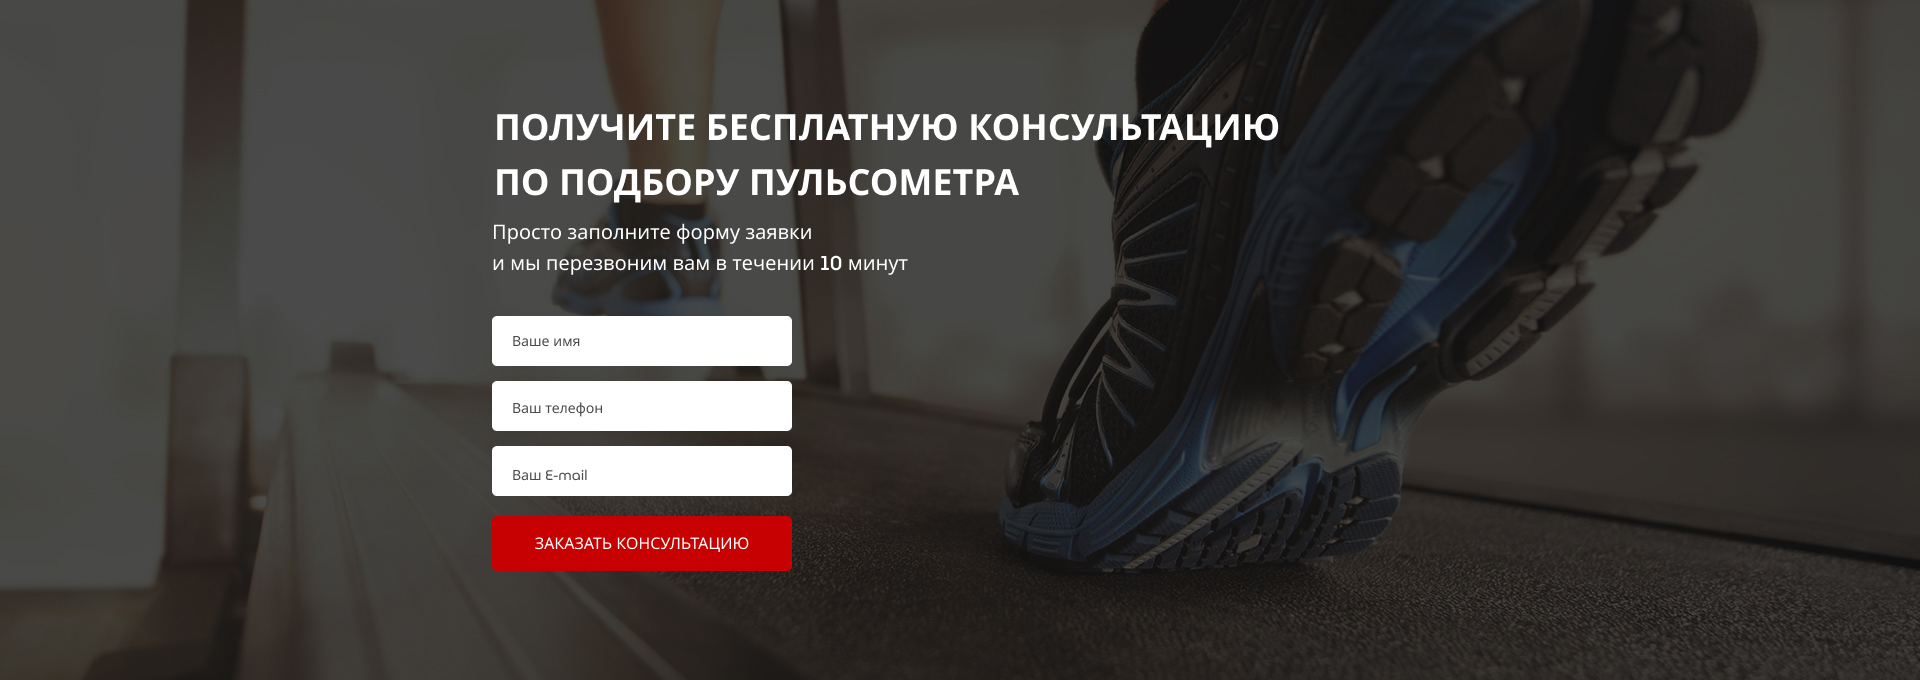
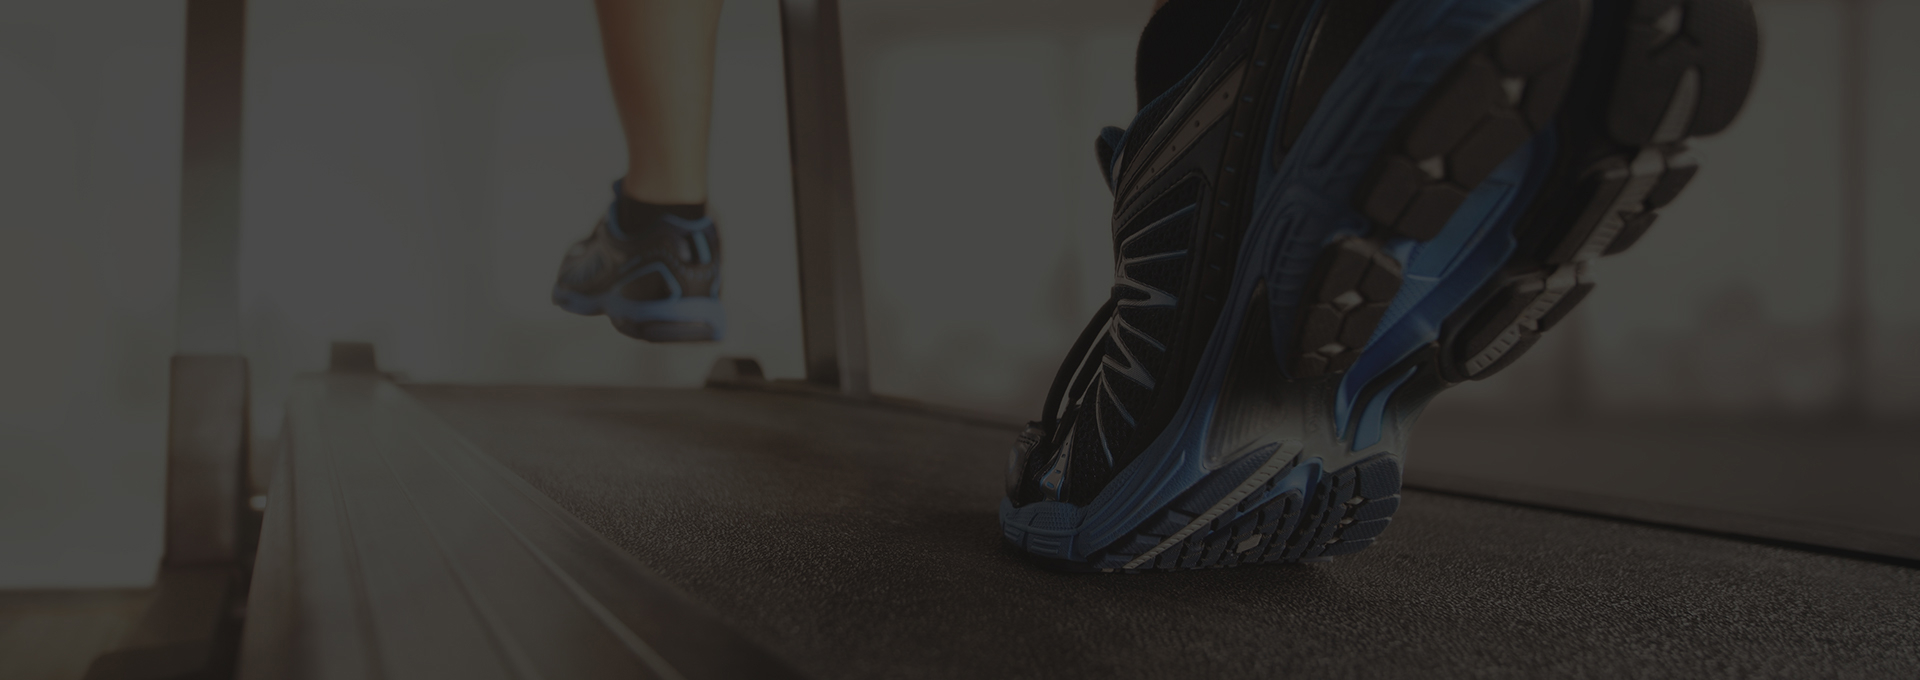
add consultation section

diff --git a/src/css/style.min.css b/src/css/style.min.css
@@ -1,1 +1,1 @@
-.promo{min-height:650px;background:url(../img/bg/promo_bg.jpg) center center/cover no-repeat;padding:21px 0 90px 0}.promo__wrapper{display:flex;flex-direction:column;align-items:end;margin-top:90px}.promo__header{font-weight:700;font-size:42px;text-transform:uppercase;color:#fff}.promo__subheader{font-weight:500;font-size:24px;text-transform:uppercase;color:#fff}.promo__icons{margin-top:60px;width:424px;display:flex;justify-content:space-between;align-items:center}.promo__icon{width:133px;font-weight:500;font-size:14px;text-align:center;color:#fff}.promo__icon img{display:block;margin:0 auto}.promo__link{margin-top:8px;font-weight:500;font-size:16px;color:#fff}.promo__link a{color:#fff}.header{display:flex;justify-content:space-between;align-items:center}.header__logo{width:251px}.header__logo img{width:100%}.header__offitial{font-weight:500;font-size:12px;text-align:center;color:#fff}.header__offitial span{display:block;font-size:18px}.header__phone{font-weight:700;font-size:18px;color:#fff;display:block}.header__contacts{display:flex;flex-direction:column;align-items:flex-end}.button{width:153px;height:32px;background:#c70101;border-radius:5px;font-weight:500;font-size:12px;text-align:center;text-transform:uppercase;color:#fff;border:none}.button_promo{margin-top:65px;width:300px;height:50px;font-size:16px}.advantages{min-height:473px;background:#f6f6f6;padding:70px 0 65px 0}.advantages__wrapper{margin-top:60px;display:flex;justify-content:space-between}.advantages__item{width:273px}.advantages__icon{display:block;margin:0 auto}.advantages__subtitle{margin-top:35px;font-weight:700;font-size:18px;text-align:center;color:#0d0d0d}.advantages__desc{font-weight:300;font-size:14px;text-align:center;color:#0d0d0d}.advantages__desc a{color:red}.title{font-weight:700;font-size:30px;text-align:center;color:#0d0d0d}*{font-family:"Museo Sans ",sans-serif}.container{width:942px;margin:0 auto}@media(max-width:991px){.container{width:742px}.promo__header{font-size:35px}.promo__subheader{font-size:20px}.advantages__item{width:223px}}@media(max-width:767px){.container{width:550px}.header__logo{width:190px}.header__offitial{font-size:11px}.header__offitial span{font-size:15px}.header__phone{font-size:15px}.button{width:125px;font-size:11px}.button_promo{width:180px}.promo__header{font-size:30px}.promo__subheader{font-size:16px}.promo__icon img{width:35px}.promo__link{font-size:14px}.advantages__item{width:170px}.advantages__subtitle{font-size:14px}.advantages__desc{font-size:12px}}@media(max-width:575px){.container{width:300px}.header{flex-direction:column}.header__logo{width:190px}.header__offitial{margin-top:10px}.header__contacts{margin-top:10px}.promo__wrapper{align-items:center}.promo__header{font-size:23px}.promo__subheader{font-size:12px}.promo__icons{width:300px}.promo__icon{width:100px;font-size:11px}.title{font-size:20px}.advantages__wrapper{flex-direction:column}.advantages__item{width:273px;margin:0 auto}.advantages__subtitle{font-size:17px}.advantages__desc{font-size:14px}}
+.promo{min-height:650px;background:url(../img/bg/promo_bg.jpg) center center/cover no-repeat;padding:21px 0 90px 0}.promo__wrapper{display:flex;flex-direction:column;align-items:end;margin-top:90px}.promo__header{font-weight:700;font-size:42px;text-transform:uppercase;color:#fff}.promo__subheader{font-weight:500;font-size:24px;text-transform:uppercase;color:#fff}.promo__icons{margin-top:60px;width:424px;display:flex;justify-content:space-between;align-items:center}.promo__icon{width:133px;font-weight:500;font-size:14px;text-align:center;color:#fff}.promo__icon img{display:block;margin:0 auto}.promo__link{margin-top:8px;font-weight:500;font-size:16px;color:#fff}.promo__link a{color:#fff}.header{display:flex;justify-content:space-between;align-items:center}.header__logo{width:251px}.header__logo img{width:100%}.header__offitial{font-weight:500;font-size:12px;text-align:center;color:#fff}.header__offitial span{display:block;font-size:18px}.header__phone{font-weight:700;font-size:18px;color:#fff;display:block}.header__contacts{display:flex;flex-direction:column;align-items:flex-end}.button{background:#c70101;border-radius:5px;font-weight:500;font-size:12px;text-align:center;text-transform:uppercase;color:#fff;border:none}.button_nav{width:153px;height:32px}.button_promo{margin-top:65px;width:300px;height:50px;font-size:16px}.button_submit{width:100%;height:58px}.advantages{min-height:473px;background:#f6f6f6;padding:70px 0 65px 0}.advantages__wrapper{margin-top:60px;display:flex;justify-content:space-between}.advantages__item{width:273px}.advantages__icon{display:block;margin:0 auto}.advantages__subtitle{margin-top:35px;font-weight:700;font-size:18px;text-align:center;color:#0d0d0d}.advantages__desc{font-weight:300;font-size:14px;text-align:center;color:#0d0d0d}.advantages__desc a{color:red}.title{font-weight:700;font-size:30px;text-align:center;color:#0d0d0d}.title_white-left{text-align:start;font-size:36px;text-transform:uppercase;color:#fff;width:799px}.consultation{min-height:680px;background:url(../img/bg/consultation_bg.jpg) center center/cover no-repeat;padding:100px 0 108px 0}.consultation__desc{font-weight:500;font-size:20px;color:#fff;width:426px}.form{margin-top:36px;display:flex;flex-direction:column;width:300px}.form input{padding:0 20px;height:54px;border-radius:5px;border:none;margin-bottom:11px}.form input:nth-child(3){margin-bottom:17px}*{font-family:"Museo Sans ",sans-serif}.container{width:942px;margin:0 auto}@media(max-width:991px){.container{width:742px}.promo__header{font-size:35px}.promo__subheader{font-size:20px}.advantages__item{width:223px}.title_white-left{width:700px;font-size:30px}}@media(max-width:767px){.container{width:550px}.header__logo{width:190px}.header__offitial{font-size:11px}.header__offitial span{font-size:15px}.header__phone{font-size:15px}.button_nav{width:125px;font-size:11px}.button_promo{font-size:11px;width:180px}.promo__header{font-size:30px}.promo__subheader{font-size:16px}.promo__icon img{width:35px}.promo__link{font-size:14px}.advantages__item{width:170px}.advantages__subtitle{font-size:14px}.advantages__desc{font-size:12px}.title_white-left{width:560px;font-size:24px}.consultation__desc{font-size:18px}}@media(max-width:575px){.container{width:300px}.header{flex-direction:column}.header__logo{width:190px}.header__offitial{margin-top:10px}.header__contacts{margin-top:10px}.promo__wrapper{align-items:center}.promo__header{font-size:23px}.promo__subheader{font-size:12px}.promo__icons{width:300px}.promo__icon{width:100px;font-size:11px}.button_nav{margin-top:5px}.title{font-size:20px}.title_white-left{width:100%;font-size:18px;text-align:center}.advantages__wrapper{flex-direction:column}.advantages__item{width:273px;margin:0 auto}.advantages__subtitle{font-size:17px}.advantages__desc{font-size:14px}.consultation__desc{width:100%;font-size:13px;text-align:center}.form{width:280px;margin:36px auto}}

diff --git a/src/index.html b/src/index.html
@@ -24,7 +24,7 @@
             <a href="tel:+74999228974" class="header__phone"
               >+7 (499) 922-89-74</a
             >
-            <button class="button">заказать звонок</button>
+            <button class="button button_nav">заказать звонок</button>
           </div>
         </header>
         <div class="promo__wrapper">
@@ -91,6 +91,27 @@
             </div>
           </div>
         </div>
+      </div>
+    </section>
+    <section class="consultation">
+      <div class="container">
+        <h2 class="title title_white-left">
+          Получите бесплатную консультацию по подбору пульсометра
+        </h2>
+        <div class="consultation__desc">
+          Просто заполните форму заявки и мы перезвоним вам в течении 10 минут
+        </div>
+        <form action="#" class="form">
+          <input name="name" type="text" required placeholder="Ваше имя" />
+          <input
+            name="phone"
+            type="number"
+            required
+            placeholder="Ваш телефон"
+          />
+          <input name="email" type="email" required placeholder="Ваш E-mail" />
+          <button class="button button_submit">заказать кОНСУЛЬТАЦИЮ</button>
+        </form>
       </div>
     </section>
   </body>

diff --git a/src/sass/_media.scss b/src/sass/_media.scss
@@ -15,6 +15,12 @@
       width: 223px;
     }
   }
+  .title {
+    &_white-left {
+      width: 700px;
+      font-size: 30px;
+    }
+  }
 }
 @media (max-width: 767px) {
   .container {
@@ -35,9 +41,12 @@
     }
   }
   .button {
-    width: 125px;
-    font-size: 11px;
+    &_nav {
+      width: 125px;
+      font-size: 11px;
+    }
     &_promo {
+      font-size: 11px;
       width: 180px;
     }
   }
@@ -66,6 +75,17 @@
     }
     &__desc {
       font-size: 12px;
+    }
+  }
+  .title {
+    &_white-left {
+      width: 560px;
+      font-size: 24px;
+    }
+  }
+  .consultation {
+    &__desc {
+      font-size: 18px;
     }
   }
 }
@@ -103,8 +123,18 @@
       font-size: 11px;
     }
   }
+  .button {
+    &_nav {
+      margin-top: 5px;
+    }
+  }
   .title {
     font-size: 20px;
+    &_white-left {
+      width: 100%;
+      font-size: 18px;
+      text-align: center;
+    }
   }
   .advantages {
     &__wrapper {
@@ -120,5 +150,16 @@
     &__desc {
       font-size: 14px;
     }
+  }
+  .consultation {
+    &__desc {
+      width: 100%;
+      font-size: 13px;
+      text-align: center;
+    }
+  }
+  .form {
+    width: 280px;
+    margin: 36px auto;
   }
 }

diff --git a/src/sass/block/_buttons.scss b/src/sass/block/_buttons.scss
@@ -1,6 +1,4 @@
 .button {
-  width: 153px;
-  height: 32px;
   background: #c70101;
   border-radius: 5px;
   font-weight: 500;
@@ -9,10 +7,18 @@
   text-transform: uppercase;
   color: #ffffff;
   border: none;
+  &_nav {
+    width: 153px;
+    height: 32px;
+  }
   &_promo {
     margin-top: 65px;
     width: 300px;
     height: 50px;
     font-size: 16px;
+  }
+  &_submit {
+    width: 100%;
+    height: 58px;
   }
 }

diff --git a/src/sass/block/_forms.scss b/src/sass/block/_forms.scss
@@ -1,0 +1,16 @@
+.form {
+  margin-top: 36px;
+  display: flex;
+  flex-direction: column;
+  width: 300px;
+  input {
+    padding: 0 20px;
+    height: 54px;
+    border-radius: 5px;
+    border: none;
+    margin-bottom: 11px;
+    &:nth-child(3) {
+      margin-bottom: 17px;
+    }
+  }
+}

diff --git a/src/sass/block/_consultation.scss b/src/sass/block/_consultation.scss
@@ -1,0 +1,11 @@
+.consultation {
+  min-height: 680px;
+  background: url(../img/bg/consultation_bg.jpg) center (center/cover) no-repeat;
+  padding: 100px 0 108px 0;
+  &__desc {
+    font-weight: 500;
+    font-size: 20px;
+    color: #ffffff;
+    width: 426px;
+  }
+}

diff --git a/src/sass/block/_titles.scss b/src/sass/block/_titles.scss
@@ -3,4 +3,11 @@
   font-size: 30px;
   text-align: center;
   color: #0d0d0d;
+  &_white-left {
+    text-align: start;
+    font-size: 36px;
+    text-transform: uppercase;
+    color: #ffffff;
+    width: 799px;
+  }
 }

diff --git a/src/sass/style.scss b/src/sass/style.scss
@@ -5,7 +5,8 @@
 @import "block/buttons";
 @import "block/advantages";
 @import "block/titles";
-
+@import "block/consultation";
+@import "block/forms";
 * {
   font-family: "Museo Sans ", sans-serif;
 }
